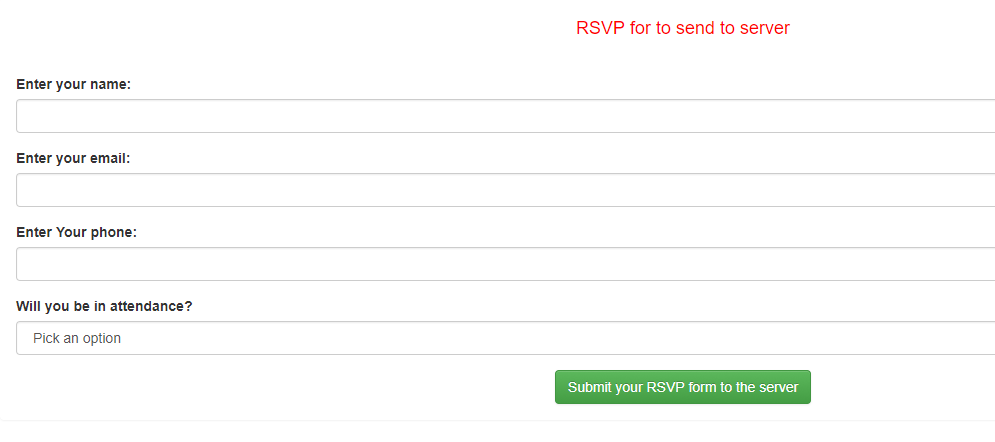
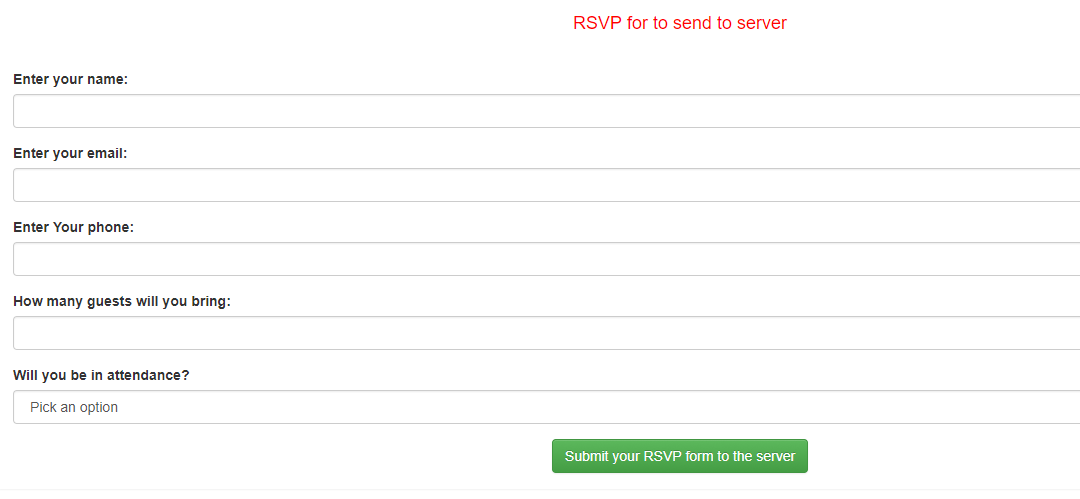
image fixes

diff --git a/weeks/week_4/blog4.md b/weeks/week_4/blog4.md
@@ -29,6 +29,8 @@ My index page had a simple HTML layout and three HTML action links. The Action l
 For part one I decided to make a simple page that asks for your age and then returns information about the amount of time left you have to live based simply on age and the average american lifespan. A visuilization of this is below along with the page that gets returned after the user enters in the input. One thing I could have spent more time on is making the output more visually appealing. 
 
 ![wireframe](pics/agePage.PNG "main menu")
+![wireframe](pics/agePage.PNG "main menu")
+![wireframe](pics/agePage.PNG "main menu")
 
 ![wireframe](pics/agePage2.PNG "return post")
 
@@ -55,7 +57,13 @@ Part two controller and view
 
 For the view I did the same thing as part one except I used a few different form types. 
 
-![wireframe](pics/macro2.PNG "some math")
+![wireframe](pics/macro2.PNG "macros")
+
+
+![wireframe](pics/macros1.PNG "macros")
+
+![wireframe](pics/macros2.PNG "macros")
+
 
 ## Part three
 
@@ -70,7 +78,15 @@ For part three the data was stored in a model called guest response that used ge
 The view for part three was also adapted from the books tutorial and used a lot of html helper methods and this was something I found difficult at first because it had me Googling a lot to figure out what each different helper method was doing. However it did end up giving me a better idea of the different ways that lambda functions can be envoked and used. 
 
 
+
+
 ![wireframe](pics/3a.PNG "model part 3")
+
+
+![wireframe](pics/rsvp1.PNG "model part 3")
+
+
+![wireframe](pics/rsvp2.PNG "model part 3")
 
 
 Overall this assignment at first had me confused about working with MVC but now I feel much more comfertable working with it as well as visual studio. I think that for the next assignment I will spend more time on the asthetics of it but going into week five I feel semi confident that it should go smoothly to add in a database. 
